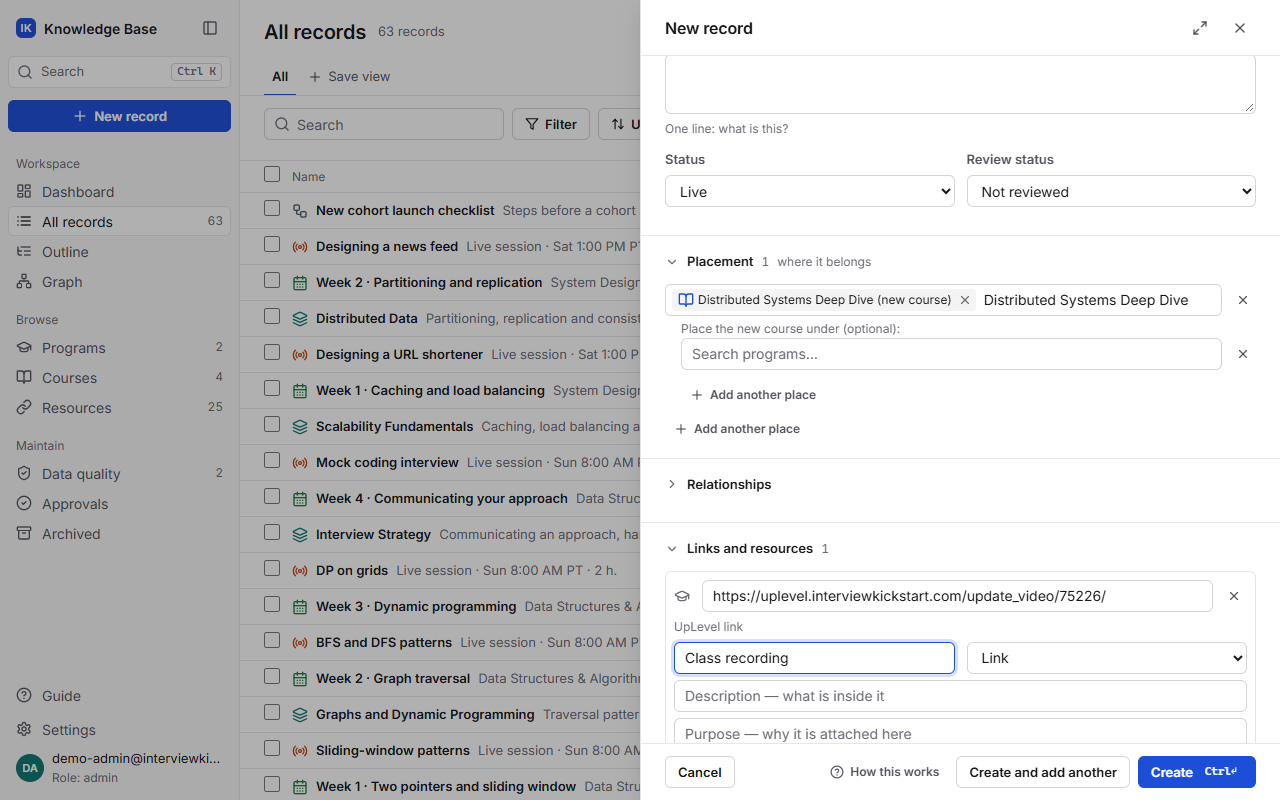
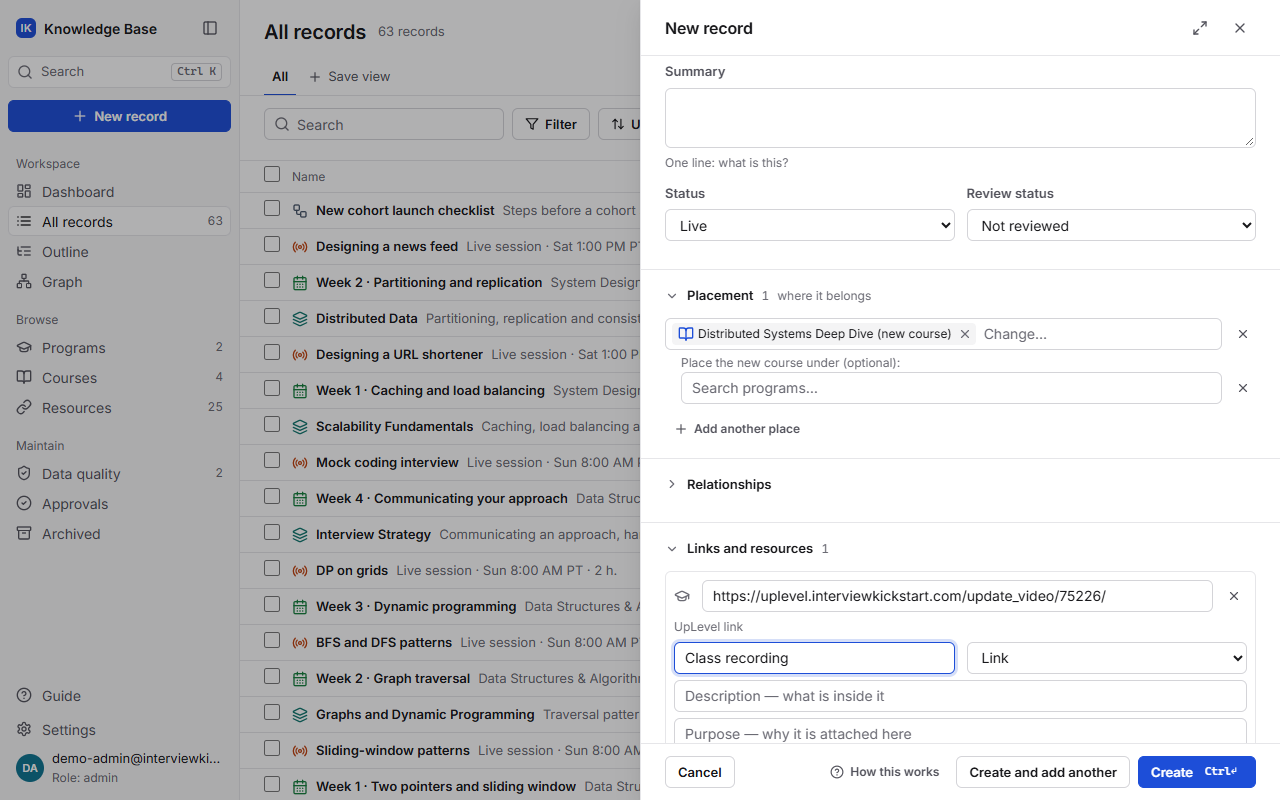
run 2 handoff: final verification (ALL PASS, 0 new failures vs main), after screenshots, guide screenshots, docs

Changed region(s): [[0.5, 0.1562, 0.9375, 0.5], [0.7188, 0.1875, 0.8438, 0.3125], [0.5312, 0.0625, 0.5625, 0.0938]]

diff --git a/HANDOFF.md b/HANDOFF.md
@@ -1,118 +1,155 @@
-# HANDOFF — knowledge platform (autonomous run, 2026-11-02)
+# HANDOFF — knowledge platform, run 2 (demo → team-ready), 2026-11-02
 
-Branch `auto/knowledge-platform-20261102` (pushed; **not merged, not deployed**).
+1. Branch `auto/knowledge-platform-20261102`, pushed; **nothing merged to main, nothing deployed**; everything ran locally.
+2. The KB workspace at `/kb/` is redesigned end to end on a documented design system (Inter, Lucide, one deep-blue accent, light/dark).
+3. **Custom record types** with fields (12 kinds), placement rules and safe-change rules, enforced in the database (migration 0027).
+4. **One-step New record**: placement with nested inline creates, relationships, links (Drive, UpLevel, GitHub…), people, tags and fields in one transaction.
+5. Complete CRUD with an **Archived** page and typed-name permanent delete; bulk edit and bulk archive; undo on removals.
+6. **Outline** (drag to reorder), **flags/reviews**, **templates**, **completeness**, **saved views**, optional **Realtime + presence**.
+7. In-app **Guide** (`public/kb/guide.md`, one editable file) with screenshots of the real UI.
+8. `scripts/verify_all.sh` now fails loudly (proven); a deploy guard proves the demo login can never ship.
+9. Regression vs `main`: the same 43 pre-existing failures by name; **no new failures** (details below).
+10. **D7 (real data) is BLOCKED**: there is no `backups/` folder. Two migrations to add to the list: **0027, 0028**.
 
-## 1. Summary
+## Open the app now
 
-- Run mode: **DEGRADED** — no Supabase dev project, Google, LLM or Vercel credentials
-  were available, so everything ran against the **local Supabase stack** (Docker).
-- New, additive **`kb` schema** (migrations 0022–0026) for authored knowledge:
-  configurable node/edge types with allowed-pair rules, resources (many-to-many),
-  tags, proposals, per-user API tokens, an audit log of every write, RLS on every table.
-- **`/api/kb/*`** behind the existing single front door; one service module holds every
-  rule (validation, roles, optimistic locking, transactions).
-- **`/kb/` workspace**: dashboard, lists with filters and cursor pagination, side panel
-  with inline editing, conflict dialog, ⌘K palette, Cytoscape graph, approvals,
-  settings (tokens, roles, types), data-quality page, CSV export.
-- **Sheets importer** (dry run → apply, idempotent, never overwrites app edits),
-  **MCP server** (19 tools, verified live with Claude Code), and a **Claude Code
-  plugin** with two skills.
-- The pipeline projection, the corpus explorer and production were not touched.
+The local Supabase stack and the demo server are **running**.
 
-## 2. Must-ship checklist
+- URL: **http://localhost:8765/local-login**
+- Sign in: `demo-admin@interviewkickstart.com` / `ik-demo-local` (admin). Also
+  `demo-editor@interviewkickstart.com` (editor) and
+  `demo-contributor@interviewkickstart.com` (contributor), same password. These
+  users exist only in the local Supabase; production keeps Google sign-in.
+- Reset the demo data: `.venv/Scripts/python eval/kb_demo_seed.py`.
+- Stop everything: docs/DEMO.md, "Stop".
+
+## 5-minute leadership demo
+
+1. **Dashboard (30 s).** Real numbers: records by type, completeness by course,
+   what needs attention, who changed what.
+2. **Outline (1 min).** Sidebar → Outline → Expand all: program › course › module ›
+   week › live session, with link counts and completeness. Drag a module to
+   reorder it. Hover a course → **Add** → Module (quick-add).
+3. **One-step New record (1.5 min).** Press **c**. Type *Module*, name it, and
+   under **Placement** type a course that does not exist → **Create course "…"**,
+   then place that new course in a program. Add a relationship ("covers" → a new
+   topic) and paste an UpLevel and a GitHub link: each is recognised with its
+   icon. **Create**: everything appears at once; **Undo** is in the toast.
+4. **Custom type (1 min).** Settings → Record types → **New record type**: "Case
+   Study" with a required *Difficulty* (Easy, Medium, Hard) and *Minutes*. The
+   form preview updates as you type. Create it, then New record → Case Study.
+5. **Collaboration and safety (1 min).** Open the same record as demo-editor in a
+   private window: "demo editor is viewing / is editing" appears live. Save in
+   one window, then in the other → "This record changed since you opened it".
+   Archive a record (it shows what goes with it) → **Archived** → Delete
+   permanently (type the name).
+6. **Guide (10 s).** Sidebar → Guide: what teammates read first.
+
+## What changed (before → after)
+
+Screenshots: `docs/redesign/before/<width>-<screen>.png` →
+`docs/redesign/after/<width>-<screen>.png` at 1440, 1280 and 1024 (for example
+`1440-dashboard.png`, `1440-records.png`, `1440-record-detail.png`,
+`1440-graph.png`, `1440-outline.png`, `1440-new-record.png`,
+`1440-type-editor.png`, `1024-record-detail.png`). Inventory with the before and
+after CRUD matrices: `docs/INVENTORY.md`. Design system and the technology
+decision: `docs/DESIGN_SYSTEM.md`.
+
+## Status of every item
 
 | Item | Status | Evidence |
 |---|---|---|
-| M1 Schema and data layer | VERIFIED | `tests/test_kb_schema.py` (15); migrations up → down → up on fresh DB (`verify_all.sh --reset-db`) |
-| M2 Auth and permissions in the DB | VERIFIED | `tests/test_kb_rls.py` (12): direct SQL as each role; viewer write and contributor archive/delete refused |
-| M3 Service/API layer | VERIFIED | `tests/test_kb_api.py` (30): success, 422, 403, 404, 409 conflict, 409 duplicate per family |
-| M4 Design system and shell | VERIFIED | `tests/test_kb_e2e.py`, screenshots reviewed; no placeholder controls (role-hidden) |
-| M5 CRUD workflows | VERIFIED | E2E: node + inline course, resource (incl. reuse), edge: create → edit → connect → archive → restore |
-| M6 Graph view | VERIFIED | E2E: open, expand, details panel in place, filter by type; 300-node cap reported |
-| M7 Collaboration | VERIFIED | `tests/test_kb_concurrency.py`: two editors → one wins, one 409; 20 parallel creates → no dupes/orphans, audit rows match; E2E two-session conflict + live update. Presence: deferred (cut #1) |
-| M8 Sheets import | VERIFIED on synthetic fixture · live UNTESTED | `tests/test_kb_import.py` (6); docs/MIGRATION_REPORT.md |
-| M9 MCP server | VERIFIED (+ live Claude check) | `tests/test_kb_mcp.py` (6) calls every tool incl. denied/approval/expired/revoked paths; `claude -p` retrieval answered from the local KB |
-| M10 Skills + plugin | VERIFIED | `claude plugin validate --strict` passes; `tests/test_kb_plugin.py` |
-| Phase 4 verification | see §6 | `scripts/verify_all.sh --fresh-clone --reset-db --perf` |
+| A1 trustworthy `verify_all.sh` | VERIFIED | set -euo pipefail; repo root from git, checked against the script's own checkout; every tool and path required; FAILS (exit 2) from a wrong cwd, a foreign repo, with a missing tool, a bad option, and a missing path (it caught the deleted `kb.js` before it was updated) |
+| A2 regression vs `main` | VERIFIED | worktrees of both against the same stack: identical 43 failing names (= `docs/baseline-failures.txt`); docs/TEST_RESULTS.md |
+| A3 leftovers deleted | VERIFIED | `main_results.txt`, `verify_main.sh` removed |
+| B inventory | VERIFIED | docs/INVENTORY.md (before and after), 42 before screenshots + 6 dialogs |
+| C1 design system + redesign | VERIFIED | docs/DESIGN_SYSTEM.md; every screen rebuilt; contrast computed from tokens; dark mode; no horizontal scroll at 1024px (10 screens, tested); every control has an accessible name (9 screens + the form, tested) |
+| C2 custom types | VERIFIED | 0027 triggers; tests/test_kb_types.py (10); browser "Case Study" end to end (type → record → filter and field columns → ⌘K → CSV → graph); MCP `list_types` and create with props; Sheets import of custom fields; rule misfits on Data quality |
+| C3 one-step New record | VERIFIED | tests/test_kb_workspace.py (11); browser: nested inline course, 2 relationships, 3 links (Drive, UpLevel, GitHub reused), rollback with the field highlighted, duplicate warning, disallowed pairs not offered, contributor proposal, draft restore and close confirmation, Undo, prefill from the open record |
+| C4 complete CRUD + delete flow | VERIFIED | matrix in docs/INVENTORY.md; browser: archive → Archived → typed delete (audited); bulk owner, tag, status, placement, archive; undo on relationship and link removal |
+| C5 Guide | VERIFIED | `public/kb/guide.md`; screenshots captured from the real UI; "How this works" links from empty states and forms; every step it describes is exercised by a browser test |
+| D1 Outline | VERIFIED | browser: expand, drag reorder (persisted), quick-add; copy as text |
+| D2 Realtime + presence | VERIFIED locally | tests/test_kb_realtime.py: two people, "is editing", update delivered over the socket in under 3 s; polling fallback exercised by the whole E2E suite (Realtime off there). Production needs owner step 5 |
+| D3 Flag and review | VERIFIED | browser: a viewer flags → the owner sees "Assigned to you" → resolves; `flagged` filter |
+| D4 Templates | VERIFIED | API and browser: save a course as a template → New record "Start from" → 3 records with name substitution, links not copied |
+| D5 Completeness | VERIFIED | API tests; shown on the dashboard, outline, record and resource panels with what is missing |
+| D6 Saved views | VERIFIED | browser: save, share, tab visible to another user; bulk owner change from the view |
+| D7 Real-data rehearsal | **BLOCKED** | `backups/` does not exist. Unblock: place `backups/ik_workbook.xlsx` and/or `backups/prod_data.sql` (gitignored) and run D7 |
+| D8 Deployment guard | VERIFIED | tests/test_deploy_guard.py (8): `.vercelignore`, function `excludeFiles`, routes, `public/`, shipped Python, prebuilt output, the Guide ships, the CSP origin script |
 
-## 3. How to run
+## Final verification
+
+`bash scripts/verify_all.sh --fresh-clone --reset-db` (13:29–13:45): **VERIFY: ALL PASS**.
+
+- Fresh clone of the branch → clean `uv` install → Python byte-compiles → all KB ES modules parse: PASS.
+- `supabase db reset` → every migration 0001–0028 → KB rolled back to 0021 → re-applied: PASS
+  (the projection step fails exactly as on `main`; pre-existing, docs/AUDIT.md).
+- Lint, plugin copy in sync, `claude plugin validate --strict`, no server keys in `public/`,
+  `.env` untracked, no secret-shaped strings in history, RLS on every kb table, deploy guard: PASS.
+- Full suite: **1156 passed, 22 failed, 21 errors, 53 skipped**; all 43 failures/errors are the
+  `main` baseline by name; **0 new**; all KB tests pass. (The Realtime test skipped there because
+  the reset removed the demo users; it passes after reseeding: 1 passed.)
+- KB tests by file: API 34, schema 16, RLS 11, concurrency 3, import 7, MCP 8, plugin 5,
+  types 10, workspace 11, browser E2E 47, Realtime 1, deploy guard 8.
+
+## New migrations to add to the dev → production list
+
+Run 1 added 0022–0026. Run 2 adds:
+
+- **0027_kb_custom_types**: type fields and rules, link kinds, flags, templates,
+  saved views, proposals for creates and type changes; contributors' record
+  INSERT tightened to editor (their creates become proposals).
+- **0028_kb_palette_realtime**: non-purple type colours; `kb.audit_log` in the
+  `supabase_realtime` publication.
+
+Both are additive, and both downs refuse while data uses what they added. They
+were tested on a fresh local database: `verify_all.sh --reset-db` applies every
+migration from 0001, rolls the KB back to 0021 and re-applies.
+
+## Decisions to review (PROGRESS.md D15–D24)
+
+- **D19 contributors' creates are proposals**, enforced by RLS. This changes run
+  1's role model (contributors created directly); editors approve in Approvals.
+- **D17 vanilla ES modules**, no framework or build step.
+- **D21 link kind vs resource kind**: where a link lives (Drive, UpLevel…) is
+  separate from what it is (KYP slides, solution…).
+- **D23 Realtime is opt-in** per deployment via `KB_REALTIME_ORIGIN`.
+- **D18 accent**: no IK brand colour exists in the repo, so a deep blue.
+
+## ACTION REQUIRED FROM OWNER
+
+1. **Review the PR** `auto/knowledge-platform-20261102` → `main`. Nothing was merged.
+2. **Apply migrations 0022–0028 to the dev Supabase project**, backup first:
+   ```bash
+   export SUPABASE_DB_URL_SESSION=<dev session pooler URL>
+   mkdir -p backups && pg_dump "$SUPABASE_DB_URL_SESSION" --schema=public --schema=kb > backups/pre-kb-$(date +%F).sql
+   python pipeline/migrate.py status && python pipeline/migrate.py up
+   ```
+   Then production the same way after a dev smoke test. Rollback:
+   `python pipeline/migrate.py down --to 0021`.
+3. **Bootstrap admins**: each signs in once at `/`, then
+   `ADMIN_EMAILS=a@interviewkickstart.com,b@… python pipeline/kb_admins.py`.
+4. **Vercel preview** of the branch pointed at the dev database; open `/kb/`.
+5. **Optional live updates**: run
+   `KB_REALTIME_ORIGIN=https://<ref>.supabase.co python scripts/kb_csp_origin.py`,
+   commit the vercel.json change, and set the same `KB_REALTIME_ORIGIN` in the
+   Vercel project (docs/DEPLOYMENT.md). Without it the app polls.
+6. **Sheets import**: share the workbook read-only with the service account; dry
+   run `KB_SHEETS_ID=<id> NP_DRIVE_SA_KEY=<path> python pipeline/kb_import_sheets.py --as you@… --report /tmp/dry.json`;
+   adjust `config/kb-sheets-mapping.yaml` (it can now fill custom fields with `props:`).
+7. **D7**: provide `backups/ik_workbook.xlsx` and/or `backups/prod_data.sql` (kept
+   local, gitignored) for the real-data rehearsal.
+8. **Brand colour**: if IK has an official accent, replace `--accent` in `public/kb/kb.css`.
+
+## How to run
 
 ```bash
 uv venv .venv -p 3.12 && uv pip install -p .venv -r requirements.txt
-db/local/setup.sh                    # Docker; local Supabase on 54322 + pooler 6543
-export SUPABASE_DB_URL_SESSION=postgresql://postgres:postgres@127.0.0.1:54322/postgres
-export SUPABASE_DB_URL_TRANSACTION=postgresql://postgres.pooler-dev:postgres@127.0.0.1:6543/postgres
-python pipeline/migrate.py up        # applies 0022–0026 if setup.sh predates them
-python eval/kb_dev_server.py 8765    # local only; then open http://127.0.0.1:8765/kb/
+npx -y supabase@2.118.0 start --workdir db/local
+python pipeline/migrate.py up                # through 0028
+python eval/kb_demo_seed.py                  # demo users + fictional data
+python eval/kb_demo_server.py 8765           # http://localhost:8765/local-login
+bash scripts/verify_all.sh [--fresh-clone] [--reset-db] [--perf]
 ```
-**Leadership demo:** `docs/DEMO.md` (local sign-in page, fictional seed data,
-reset and stop). Locally there is no Google sign-in; the browser tests inject a session minted with
-the test-only secret (`tests/kb_support.py`). Verification:
-`bash scripts/verify_all.sh [--fresh-clone] [--reset-db] [--perf]`.
-MCP: docs/MCP.md (token from Settings → API tokens; `.mcp.json` from
-`mcp_server/mcp.example.json`, or install the plugin).
-
-## 4. ACTION REQUIRED FROM OWNER
-
-1. **Review the PR** for `auto/knowledge-platform-20261102` → `main`. Nothing was merged.
-2. **Apply the migrations to a DEV Supabase project first**, then production:
-   ```bash
-   export SUPABASE_DB_URL_SESSION=<session pooler URL>     # dev project
-   mkdir -p backups && pg_dump "$SUPABASE_DB_URL_SESSION" --schema=public --schema=kb > backups/pre-kb-$(date +%F).sql
-   python pipeline/migrate.py status && python pipeline/migrate.py up   # 0022–0026, additive
-   ```
-   Repeat on production after the dev smoke test (db/window/backup.sh for the full
-   backup procedure). Rollback: `python pipeline/migrate.py down --to 0021` (drops only `kb`).
-3. **Bootstrap admins:** each admin signs in once at `/` (creates their profile), then
-   `ADMIN_EMAILS=a@interviewkickstart.com,b@… python pipeline/kb_admins.py`.
-4. **Vercel:** no new environment variables are needed for the web app (`/kb/` uses
-   the existing `SUPABASE_*` and `GOOGLE_OAUTH_CLIENT_ID`). Open a **preview** of the
-   branch and load `/kb/`; previews must point at the dev database.
-5. **Sheets import (live):** share the workbook read-only with the service account,
-   then `KB_SHEETS_ID=<id> NP_DRIVE_SA_KEY=<path> python pipeline/kb_import_sheets.py --as you@… --report /tmp/dry.json`;
-   adjust `config/kb-sheets-mapping.yaml` to the real tab/header names; then `--apply` on dev.
-6. **Supabase dashboard:** nothing required for this build (no Realtime used; Google SSO
-   already configured). For the ROADMAP Realtime item: enable Realtime on `kb` tables
-   and add the realtime host to the CSP `connect-src`.
-7. **Missing credentials, for a FULL-mode run next time:** a dev project
-   `SUPABASE_DB_URL_SESSION`/`_TRANSACTION` with `SUPABASE_ENV=dev`; `NP_DRIVE_SA_KEY`
-   path + `KB_SHEETS_ID`; `VERCEL_TOKEN` (preview deploys only).
-
-## 5. Decisions and assumptions to review
-
-See PROGRESS.md "Decisions" D1–D11. The ones most worth a second look:
-- D3 separate `kb` schema (vs. making the projection editable);
-- D5 no email/password login (production SSO kept);
-- D6 polling change feed instead of Supabase Realtime;
-- D7 MCP via HTTP + per-user tokens (migration 0025 grants `authenticated` execute on
-  the SECURITY DEFINER token resolver);
-- D8 skills inside the new plugin rather than at the repo root;
-- starting vocabulary of node/edge types (0022) — admins can extend it in Settings.
-
-## 6. Verification, blockers, limitations, performance
-
-Full detail: docs/TEST_RESULTS.md.
-
-- **Verified:** fresh clone + clean install; every migration from 0001 on a reset local
-  DB with the kb round trip; lint; plugin validation; security spot checks; RLS on
-  every kb table; every KB test file passing (91 KB tests: 27 schema/RLS, 30 API,
-  14 browser E2E, 3 concurrency, 6 import, 6 MCP, 5 plugin).
-- **Full suite + regression comparison:** PASS on re-run (`bash scripts/verify_all.sh`):
-  1089 passed, 22 failed, 21 errors, 50 skipped. Every failure and error is a
-  pre-existing baseline item (`docs/baseline-failures.txt`); no regressions;
-  `VERIFY: ALL PASS`.
-- **Pre-existing, not fixed:** `project_graph.py` fails on a fresh DB
-  (`corpus_names_a_file`); 12 Windows-only test failures (docs/AUDIT.md).
-- **Limitations:** no presence indicators; collaboration uses 4-second polling, not
-  Realtime; the HTTP MCP transport is single-token (one user), so Claude.ai remote
-  use needs the OAuth design first; duplicate adoption in imports is manual; edge
-  type cannot be changed after creation (archive and re-create).
-- **Performance (5k nodes / 15k edges, local):** list p50 12–16 ms, search p50
-  20–30 ms, neighbourhood depth-1 p50 14 ms, depth-2 p95 123 ms, 600-edge hub
-  113 ms p50 (capped at 300 of 607).
-
-## 7. Next session
-
-The top five from docs/ROADMAP.md: apply to dev → prod with admin bootstrap; real
-Sheets import; remote MCP with per-user OAuth for Claude.ai; duplicate-adoption flow
-for import; Realtime + presence.
+MCP: docs/MCP.md (now with `list_types`); plugin `ik-knowledge-assistant` 0.2.0.
+Run 1's handoff (M1–M10) is in git history (commit 597b0e1 and earlier).

diff --git a/docs/TEST_RESULTS.md b/docs/TEST_RESULTS.md
@@ -1,4 +1,32 @@
-# Test results — 2026-11-02 (local Supabase stack, Windows 11, Python 3.12, Chrome)
+# Test results — 2026-11-02 (run 1 below; run 2 first) (local Supabase stack, Windows 11, Python 3.12, Chrome)
+
+## Run 2 (demo → team-ready), final
+
+`bash scripts/verify_all.sh --fresh-clone --reset-db` (13:29–13:45): **VERIFY: ALL PASS**.
+
+- Fresh clone of the branch → clean `uv` install → Python byte-compiles → all KB ES modules parse: PASS.
+- `supabase db reset` → every migration 0001–0028 → KB rolled back to 0021 → re-applied: PASS
+  (the projection step fails exactly as on `main`; pre-existing, docs/AUDIT.md).
+- Lint, plugin copy in sync, `claude plugin validate --strict`, no server keys in `public/`,
+  `.env` untracked, no secret-shaped strings in history, RLS on every kb table, deploy guard: PASS.
+- Full suite: **1156 passed, 22 failed, 21 errors, 53 skipped**; all 43 failures/errors are the
+  `main` baseline by name; **0 new**; all KB tests pass. (The Realtime test skipped there because
+  the reset removed the demo users; it passes after reseeding: 1 passed.)
+- KB tests by file: API 34, schema 16, RLS 11, concurrency 3, import 7, MCP 8, plugin 5,
+  types 10, workspace 11, browser E2E 47, Realtime 1, deploy guard 8.
+
+Browser tests (`tests/test_kb_e2e.py`, 47) run in Chrome under the production security headers:
+the 14 run-1 paths updated for the redesign; custom type "Case Study" end to end; one-save create
+with nested inline course, 2 relationships, 3 links (Drive, UpLevel, GitHub reused); rollback with
+the field highlighted; duplicate warning; disallowed relationships; contributor proposal; archive →
+permanent delete; two-user conflict; keyboard-only flows; outline reorder and quick-add; flag →
+review; templates; shared saved view + bulk owner; Guide promises (Undo, draft restore, theme);
+prefill from context and custom-field columns; no horizontal scroll at 1024px (10 screens);
+accessible names on every control (9 screens + the form). Ran green repeatedly.
+
+Performance at 5,000 records / 15,000 relationships (local, 20 runs): list p50 16–19 ms, search
+p50 19–32 ms, depth-2 neighbourhood p95 120 ms, hub detail p50 32 ms; dashboard p50 33 ms,
+outline 8 ms, quality 15 ms.
 
 Only measured results are stated. Nothing here was run against a shared or
 production database.

diff --git a/PLAN.md b/PLAN.md
@@ -7,23 +7,23 @@ Inputs: docs/SPEC.md does NOT exist in the repo (PROGRESS D15) -> the run-2 prom
 backups/ does not exist -> D7 BLOCKED (D16). Frontend stays vanilla JS, no build (D17).
 
 ## Phase A — trustworthy verification (<=30 min)
-- [ ] A1 verify_all.sh: set -euo pipefail, git-root, every tool/path checked. Prove: wrong cwd + missing tool FAIL.
-- [ ] A2 main worktree baseline vs branch, by failing test NAME -> docs/TEST_RESULTS.md
+- [x] A1 verify_all.sh: set -euo pipefail, git-root, every tool/path checked. Proven failing (wrong cwd, foreign repo, missing tool, bad option, missing path).
+- [x] A2 main vs branch: identical 43 failing names -> docs/TEST_RESULTS.md
 - [x] A3 deleted main_results.txt, verify_main.sh
 
 ## Phase B — inventory (<=30 min)
-- [ ] docs/INVENTORY.md + docs/inventory/screens/*.png: screens, CRUD matrix, gaps, critique
+- [x] docs/INVENTORY.md (before + after) + screenshots
 
 ## Phase C — must ship
-- [ ] C1 design system (tokens + components, DESIGN_SYSTEM.md) + every screen rebuilt; before/after 1440/1280/1024
-- [ ] C2 custom types: fields, rules, link kinds; safe changes; list_types MCP tool
-- [ ] C3 one-step New record side sheet (same form edits)
-- [ ] C4 complete CRUD + archive -> Archived -> permanent delete; bulk edit/archive
-- [ ] C5 Guide page (one content file, real screenshots)
+- [x] C1 design system + every screen rebuilt; before/after 1440/1280/1024
+- [x] C2 custom types (0027), safe changes, link kinds, list_types
+- [x] C3 one-step New record sheet (same form edits)
+- [x] C4 complete CRUD, Archived, typed delete, bulk
+- [x] C5 Guide (public/kb/guide.md)
 
 ## Phase D (cut from bottom first: D6 -> D4 -> D3 -> presence -> D5)
-- [ ] D1 Outline  - [ ] D2 Realtime+presence  - [ ] D3 Flag/review  - [ ] D4 Templates
-- [ ] D5 Completeness  - [ ] D6 Saved views  - [ ] D7 real data (BLOCKED)  - [ ] D8 deploy guard
+- [x] D1 Outline  - [x] D2 Realtime+presence  - [x] D3 Flag/review  - [x] D4 Templates
+- [x] D5 Completeness  - [x] D6 Saved views  - [ ] D7 real data (BLOCKED: no backups/)  - [x] D8 deploy guard
 
 ## Final (from 16:00)
 verify_all from fresh clone; full suite vs main baseline; browser tests (Case Study type, one-save create,

diff --git a/README.md b/README.md
@@ -5,13 +5,17 @@ A knowledge graph over the New Programs corpus, packaged as a Claude Code plugin
 **Read the limitations before the features.** They are first on purpose.
 
 > **New (branch `auto/knowledge-platform-20261102`): the KB workspace.** An
-> editable knowledge base of programs, courses, modules, topics, instructors and
-> resources at `/kb/`, separate from the derived corpus graph below and stored in
-> its own `kb` schema. Roles enforced by RLS, optimistic locking, audit history,
-> a graph view, a Google Sheets importer, and an MCP server plus a Claude Code
-> plugin (`plugins/ik-knowledge-assistant/`). Start with `HANDOFF.md`; design in
-> `docs/ARCHITECTURE.md`; verify with `scripts/verify_all.sh`. Nothing below this
-> note changed.
+> editable knowledge base of programs, courses, domains, modules, weeks, live
+> sessions, topics, instructors and their links at `/kb/`, separate from the
+> derived corpus graph below and stored in its own `kb` schema. Custom record
+> types with fields (enforced in the database), a one-step New record form, an
+> outline, a graph, data quality, approvals, archive and permanent delete, an
+> in-app Guide (`public/kb/guide.md`), roles enforced by RLS, optimistic locking,
+> audit history, optional Supabase Realtime with presence, a Google Sheets
+> importer, and an MCP server plus a Claude Code plugin
+> (`plugins/ik-knowledge-assistant/`). Start with `HANDOFF.md`; design in
+> `docs/DESIGN_SYSTEM.md` and `docs/ARCHITECTURE.md`; try it with `docs/DEMO.md`;
+> verify with `bash scripts/verify_all.sh`. Nothing below this note changed.
 
 ---
 

diff --git a/PROGRESS.md b/PROGRESS.md
@@ -39,6 +39,10 @@ via Docker used for everything).
 - [T+0:20] B inventory: docs/INVENTORY.md, 42 before screenshots (1440/1280/1024) + 6 dialogs | VERIFIED
 - [T+0:30 12:14] Backend for C2/C3/C4/D1/D3-D6 (0027, typedefs.py, workspace.py, routes, MCP list_types) | 108 KB API tests pass (+21 new) | VERIFIED (API); UI next. Commit 11633a1
 - [T+1:25 13:10] C1 redesign (tokens, components, every screen rebuilt as ES modules; Inter + Lucide self-hosted), C3 one-step New record sheet, C4 UI (Archived, typed delete, bulk bar, undo), C5 Guide page, D1 Outline, D2 Realtime client + presence (polling fallback), D3 flags UI, D4 templates UI, D5 completeness UI, D6 saved views | E2E 32/32 twice (14 updated + 18 new) | VERIFIED; 0028 palette + realtime publication
+- [T+1:30 13:14] Sheets import custom fields (props), rule misfits on Data quality, phase-D browser tests | 36 E2E | VERIFIED
+- [T+1:40 13:24] Custom-field columns, New record prefilled from context, Guide links from empty states, resource completeness, accessible-name sweep, plugin 0.2.0 | 47 E2E | VERIFIED
+- [T+1:45 13:29] Final verify_all --fresh-clone --reset-db started (migrations 0001-0028 on a fresh DB: PASS; static/security/deploy guard: PASS)
+- [T+2:05 13:50] FINAL: verify_all --fresh-clone --reset-db ALL PASS; full suite 1156 pass, 43 = main baseline, 0 new; realtime 1 pass after reseed; after-screens 1440/1280/1024 + dark, no issues | VERIFIED. Handoff written; demo reseeded; demo server + local Supabase left running.
 
 ## Decisions
 

diff --git a/docs/DEMO.md b/docs/DEMO.md
@@ -10,7 +10,7 @@ server, fictional data. Nothing here touches production, Vercel or Google.
 npx -y supabase@2.118.0 start --workdir db/local
 export SUPABASE_DB_URL_SESSION=postgresql://postgres:postgres@127.0.0.1:54322/postgres
 export SUPABASE_DB_URL_TRANSACTION=postgresql://postgres.pooler-dev:postgres@127.0.0.1:6543/postgres
-.venv/Scripts/python pipeline/migrate.py up          # through 0026 (bin/python on macOS/Linux)
+.venv/Scripts/python pipeline/migrate.py up          # through 0028 (bin/python on macOS/Linux)
 .venv/Scripts/python eval/kb_demo_seed.py            # demo users + fictional data (re-runnable)
 .venv/Scripts/python eval/kb_demo_server.py 8765     # leave running; prints READY 8765
 ```
@@ -28,6 +28,11 @@ Open **http://localhost:8765/local-login**.
 These are users in the LOCAL Supabase Auth only, made by the seed script. Use a
 second browser profile or a private window for a second user (the session lives
 in the browser's local storage, one user per profile).
+
+The contributor's new records go to an editor for approval (Approvals). Live
+updates and presence ("demo editor is editing") use the local stack's Realtime;
+the demo server takes its origin from `supabase status` and allows exactly that
+origin in the page's security policy.
 
 ### How the local sign-in works, and why production is unaffected
 
